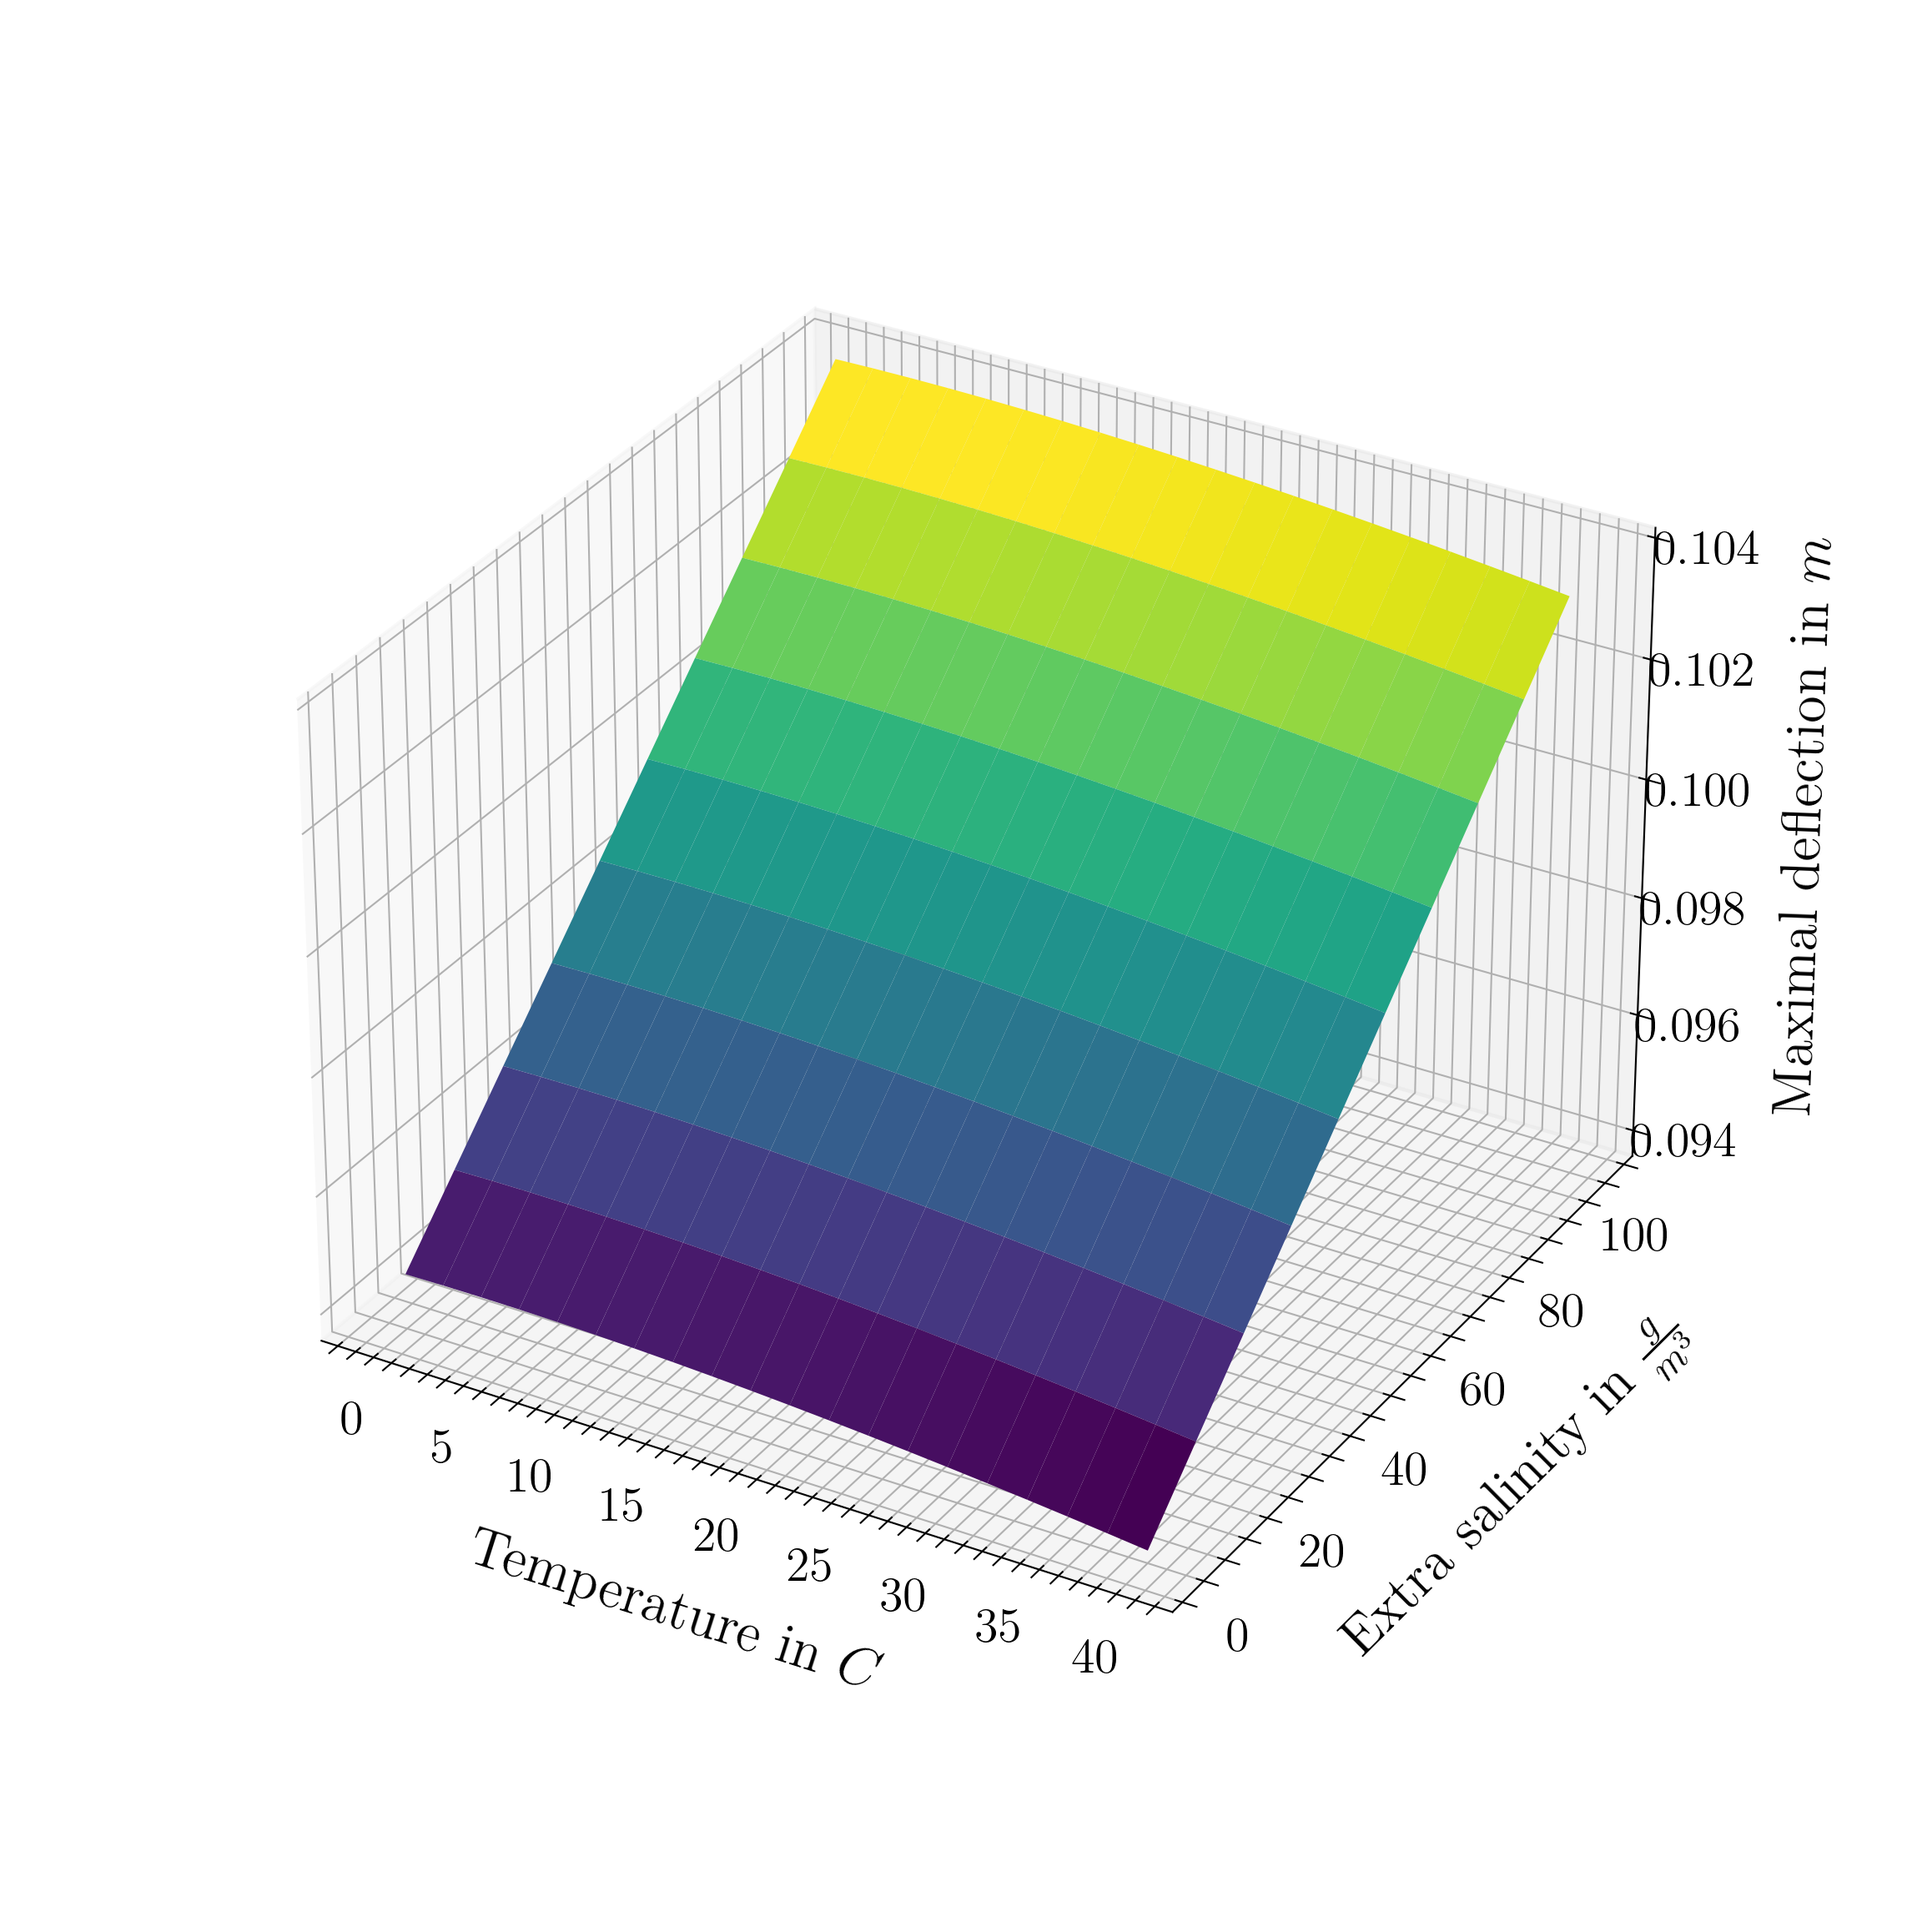
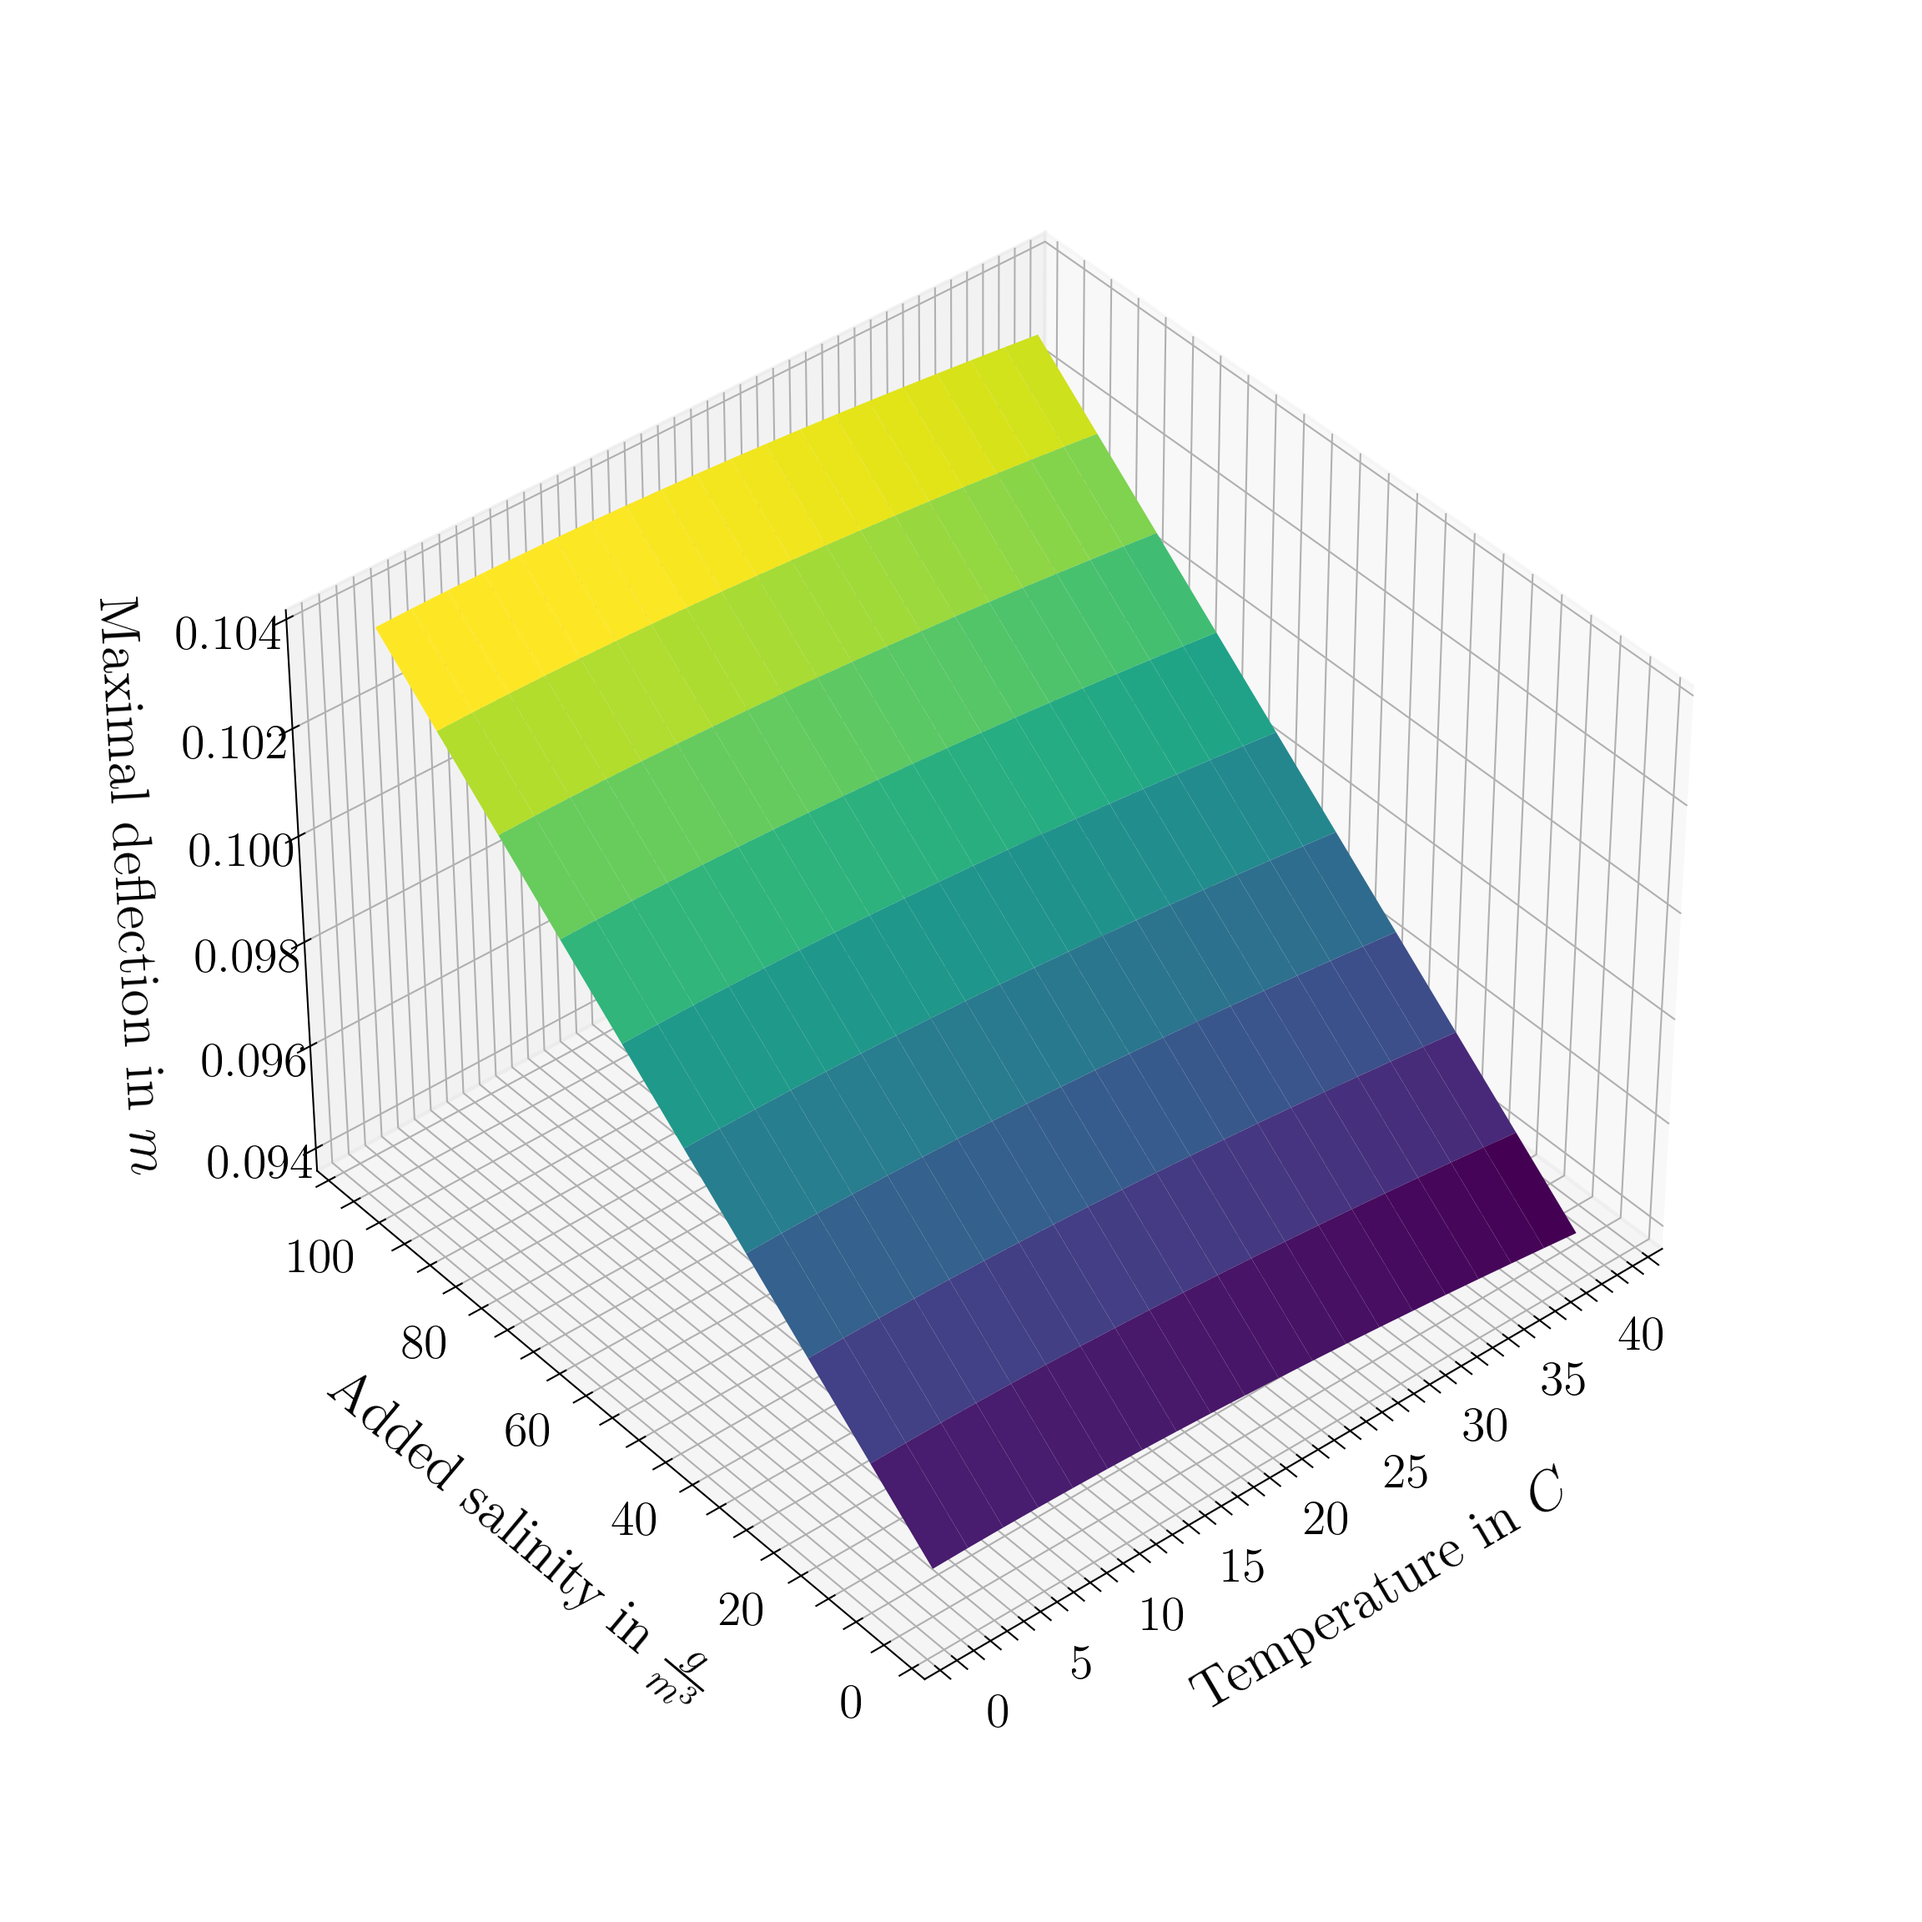
picavavitt

diff --git a/PhiCalc.py b/PhiCalc.py
@@ -773,7 +773,7 @@ def max_dev(rho_w=rho_water, t_end=10):
     return max(abs(min_val), abs(max_val))
 
 
-# print(max_dev(rho_w=1023))
+print(max_dev(rho_w=1023))
 
 dt = 1 / 10
 t_end = 5
@@ -830,7 +830,7 @@ def Ext_1_Surf():
 
 def DT_UMAX_diagram():
     plt.style.use(["science"])
-    dT_list = np.linspace(0, 0.5, 10)
+    dT_list = np.linspace(0, 0.2, 10)
     N_ds = 5
     dS_list = np.linspace(0, 0.2, N_ds)
 
@@ -929,8 +929,9 @@ def DT_DS_UMAX_Diagram():
     ax.plot_surface(x, y, Z, cmap="viridis")
 
     ax.set_xlabel(r"Temperature in $C$", labelpad=15)
-    ax.set_ylabel(r"Extra salinity in $\frac{g}{m^3}$", labelpad=15)
+    ax.set_ylabel(r"Added salinity in $\frac{g}{m^3}$", labelpad=15)
     ax.set_zlabel(r"Maximal deflection in $m$", labelpad=15)
+    ax.view_init(elev=40, azim=-130)
 
     # -------------------BEGIN-CHANGES------------------------
     plt.savefig("DT_DS_UMAX.png", dpi=300)
@@ -977,7 +978,7 @@ def T_UMAX_at_different_salinity():
             xy=(X[-1], Y[-1]),
             xytext=(5, 0),
             textcoords="offset points",
-            text=f"Salinity of {int(salt)}",
+            text=f"Added Salinity of {int(salt)}",
             va="center",
         )
     ax.set_xlim(0, 40)
@@ -1003,11 +1004,11 @@ def T_UMAX_at_different_salinity():
 
 
 def get_table():
-    n_salt = 10
+    n_salt = 5
     n_temp = 3
-    table = np.empty((10, 3))
-    salts = np.round(np.linspace(0, 300, n_salt), 3)
-    temperatures = np.linspace(20, 50, n_temp)
+    table = np.empty((n_salt, n_temp))
+    salts = np.round(np.linspace(0, 100, n_salt), 3)
+    temperatures = np.linspace(20, 40, n_temp)
 
     for n_salt, salt in enumerate(salts):
         for n_temp, temp in enumerate(temperatures):
